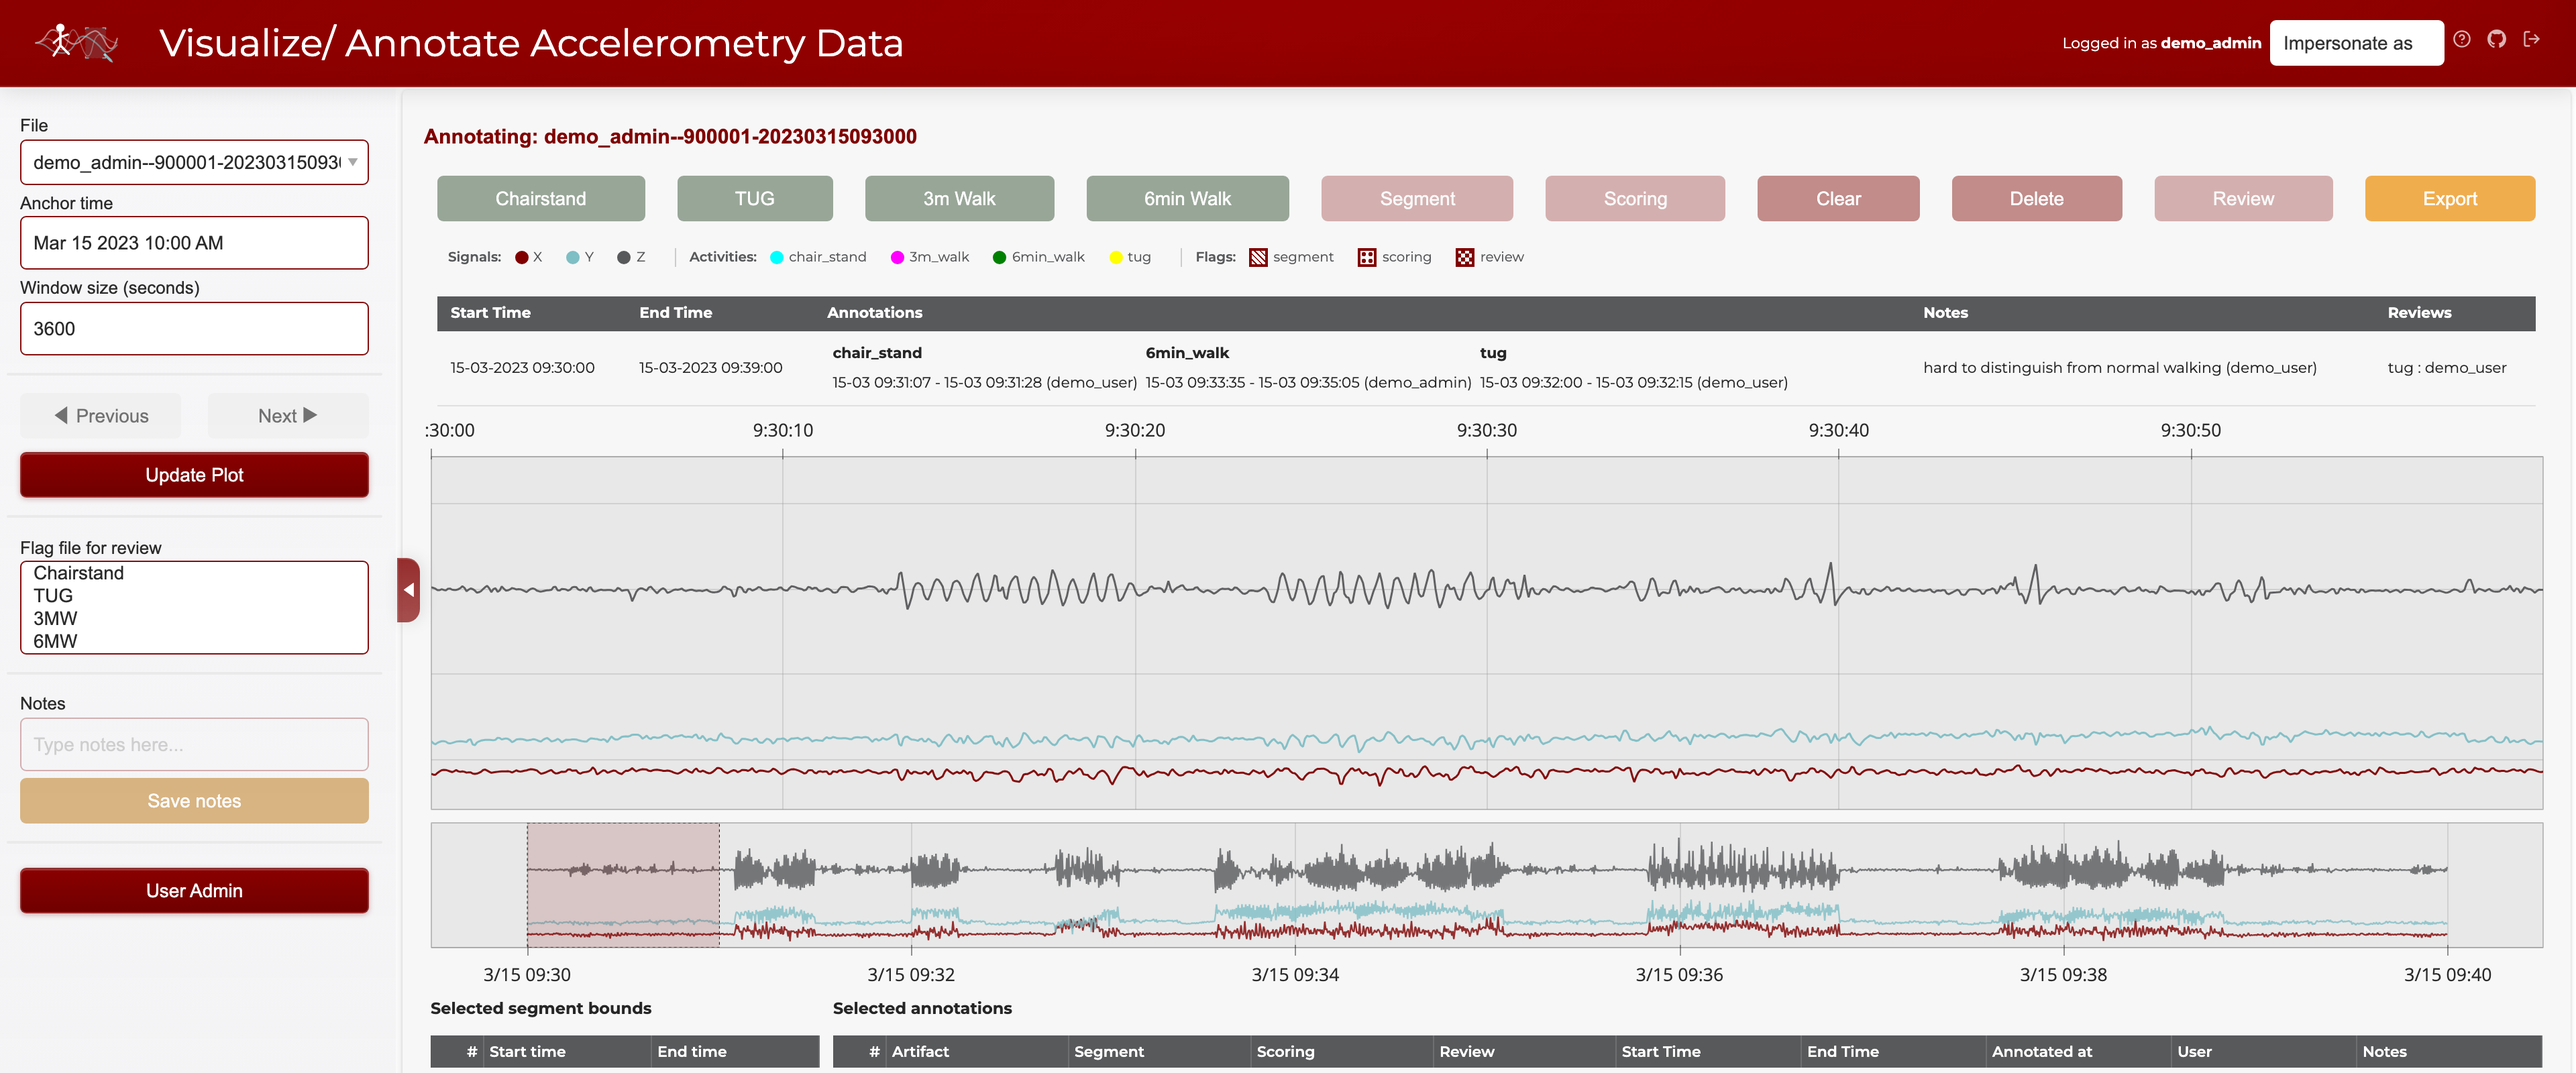
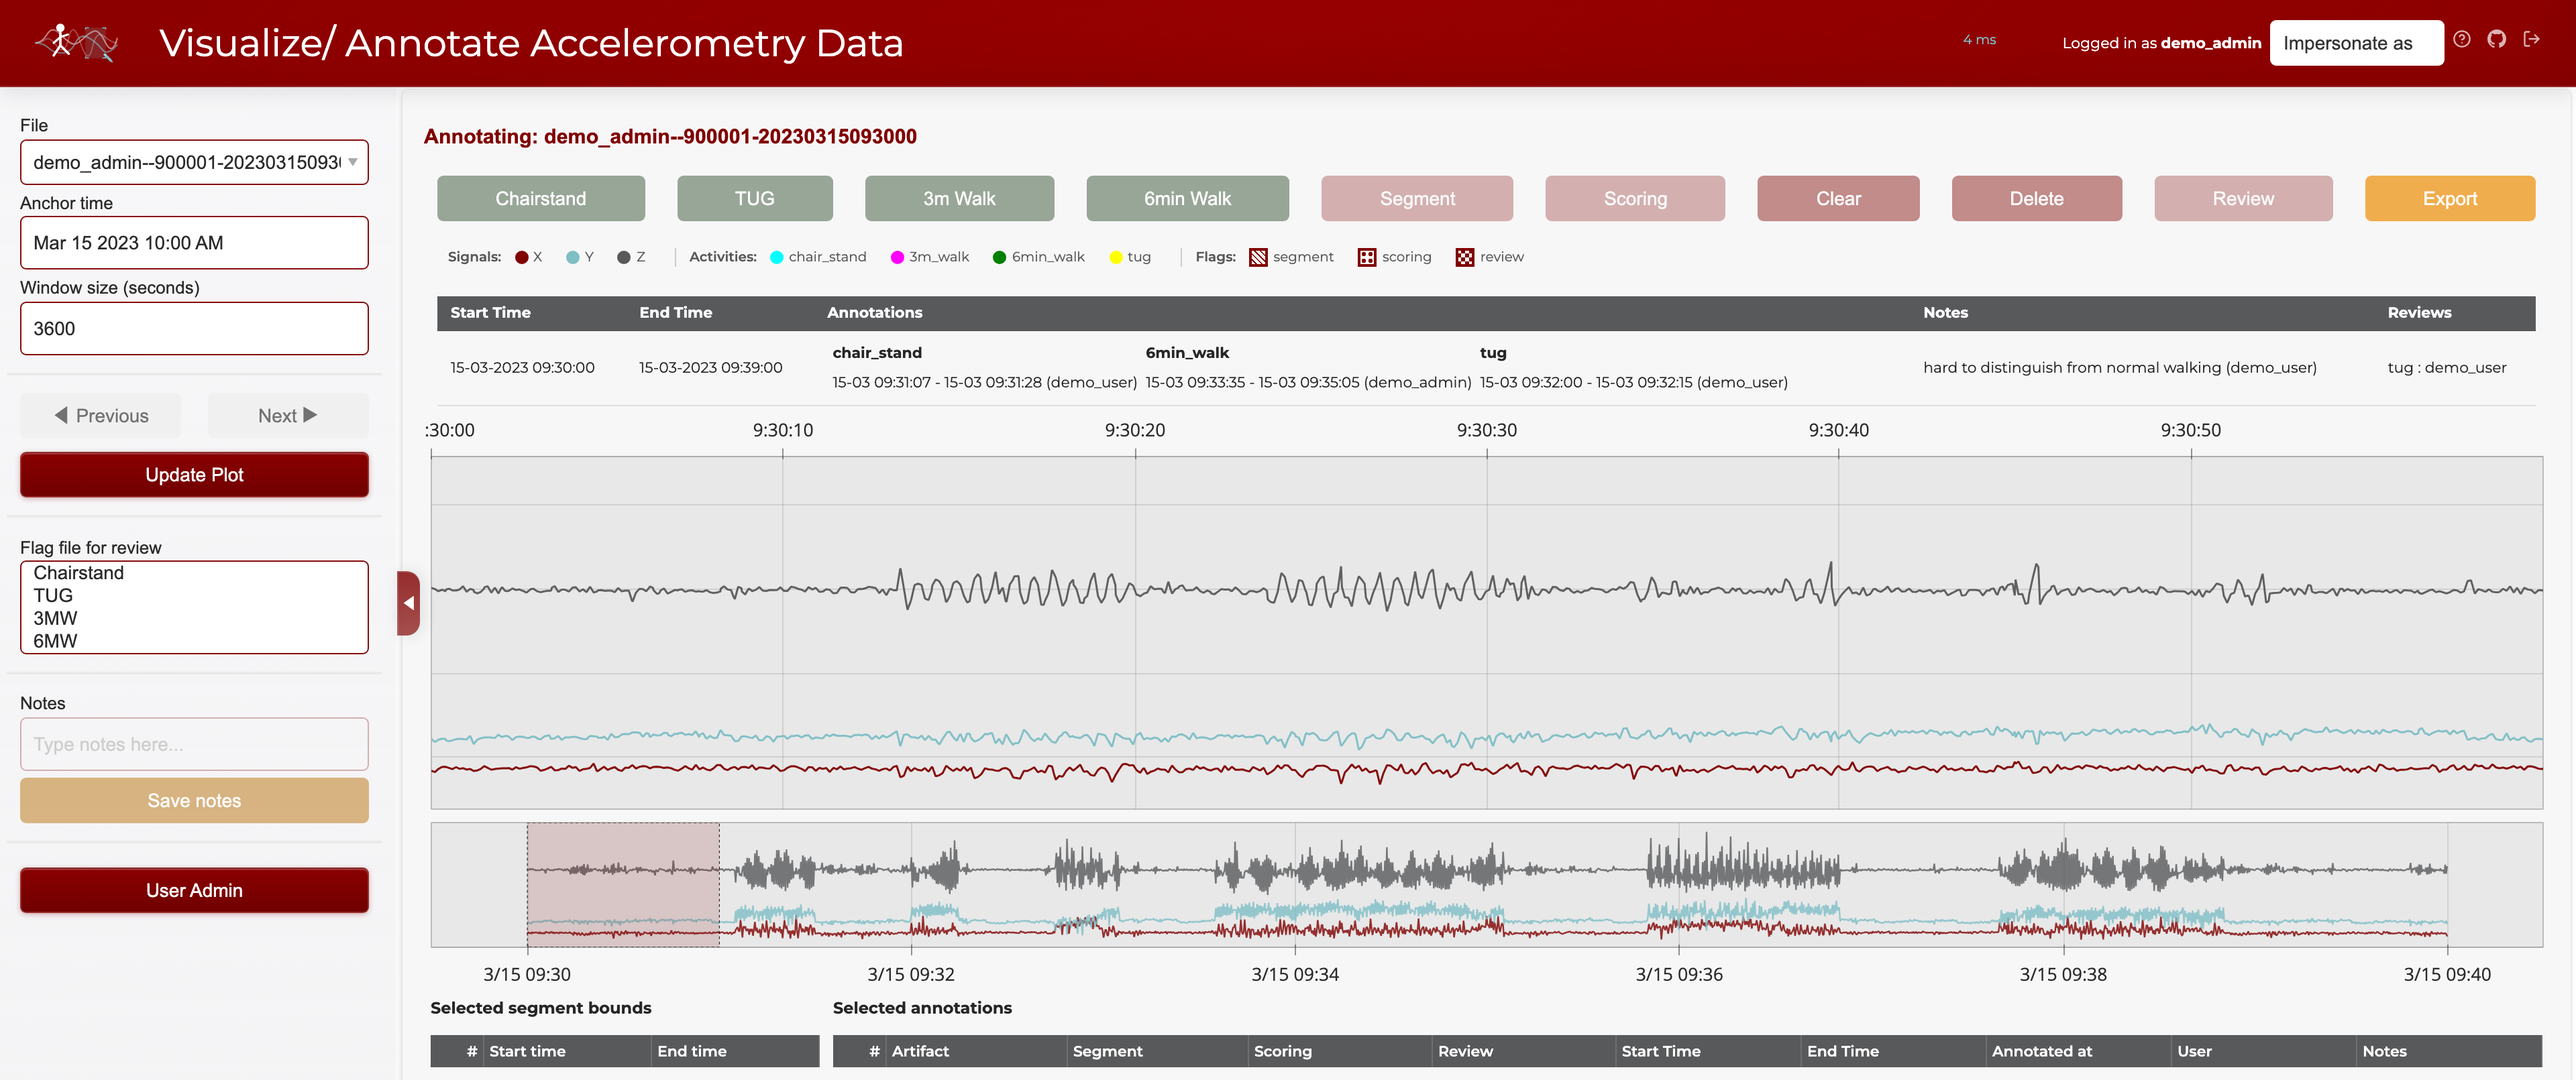
fix: update screenshots with latency indicator, fix initial range selector
- Retake header_bar, full_app, demo_full_app screenshots showing latency indicator
- Crop excess whitespace from bottom of full app screenshots
- Fix range selector showing full window on file load (now shows ~10% initially)

diff --git a/visualize_accelerometry/plotting.py b/visualize_accelerometry/plotting.py
@@ -302,9 +302,10 @@ def update_plot_data(pdf, signal_cds, main_fig, range_source=None):
             renderer.glyph.top = q_top
             renderer.glyph.bottom = q_bot
 
-    # Reset x_range to show full window
+    # Reset x_range to show ~10% of the file initially (matches make_plot)
     main_fig.x_range.start = ts_raw[0]
-    main_fig.x_range.end = ts_raw[-1]
+    initial_end_idx = min(len(ts_raw) - 1, int(len(ts_raw) * 0.1))
+    main_fig.x_range.end = ts_raw[initial_end_idx]
 
     # Update range selector if provided
     if range_source is not None:
